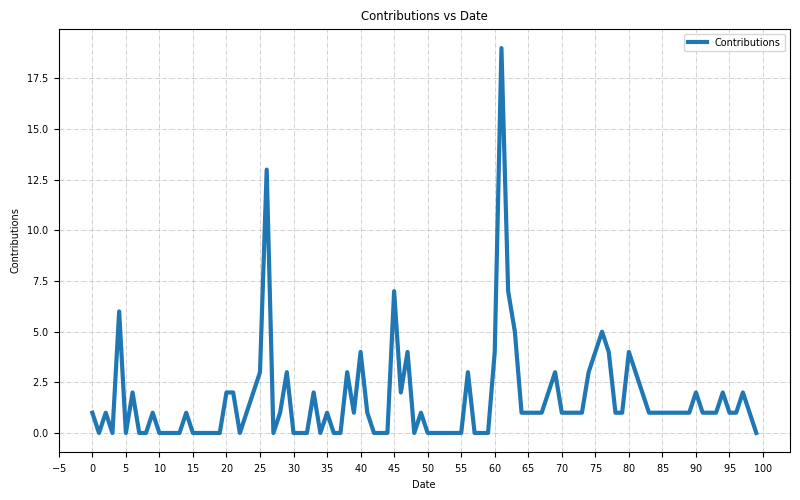
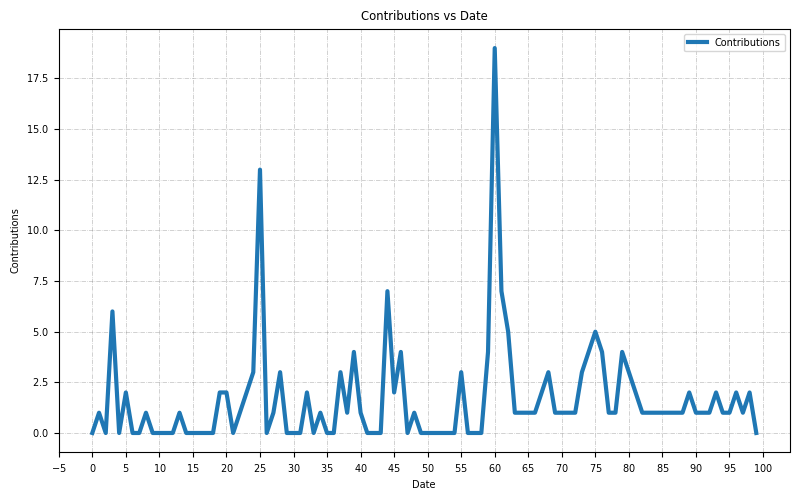
Automatic update

Changed region(s): [[0.5625, 0.09, 0.8125, 0.87], [0.0938, 0.33, 0.5312, 0.87], [0.8438, 0.78, 0.9688, 0.87]]

diff --git a/README.md b/README.md
@@ -21,7 +21,7 @@ Daily stats:
 
 Shell, Python, Makefile, Dockerfile, Java, HTML, Go, VimScript, Perl, JavaScript, Groovy, C, Ruby, ProtocolBuffer, PowerShell, HCL, Groff, CSS, CMake, C++, Batchfile.
 
-Number of contributions yesterday: **1**.
+Number of contributions yesterday: **2**.
 
 ***Most popular***
 
